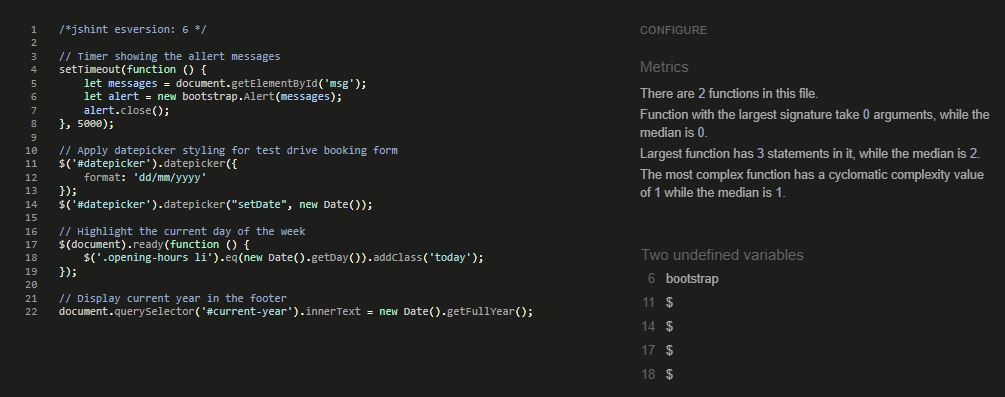
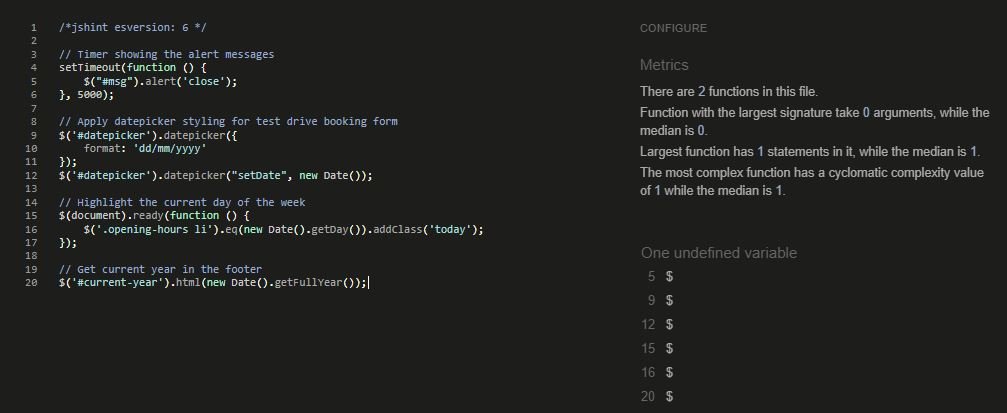
Complete a new JShint validation after java script code update. Upload new picture with js validation results

diff --git a/static/js/script.js b/static/js/script.js
@@ -16,5 +16,5 @@ $(document).ready(function () {
     $('.opening-hours li').eq(new Date().getDay()).addClass('today');
 });
 
-// Get current year
+// Get current year in the footer
 $('#current-year').html(new Date().getFullYear());
